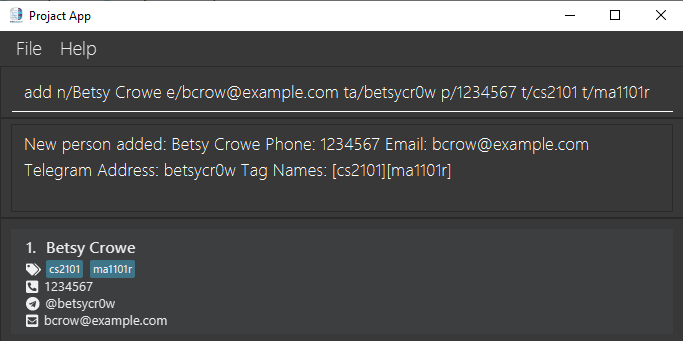
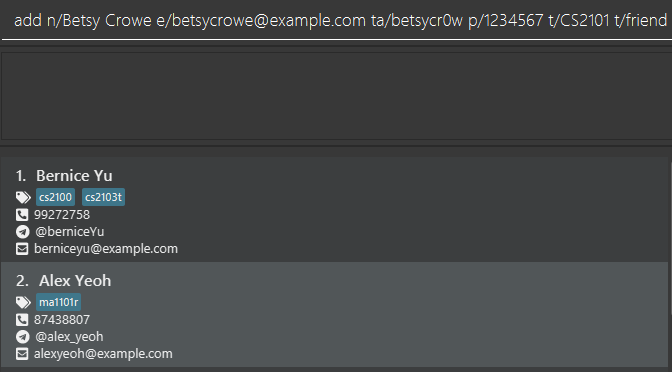
Add guide for AddCommand and EditCommand

diff --git a/docs/UserGuide.md b/docs/UserGuide.md
@@ -191,13 +191,13 @@ Projact's data is saved to your hard disk automatically if there are any changes
 
 #### Adding a contact: `add`
 
-Adds a contact to the person list.
+Have you made a new friend? Great! Use the `add` command to add a new contact into the list.
 
 **Format**: `add n/NAME p/PHONE_NUMBER e/EMAIL ta/TELEGRAM_ADDRESS [t/TAG]…`
 
 * No two contacts can have the same name.
-* Phone numbers can be 7 to 15 digits long.
-* Telegram addresses can be 5-32 characters long.
+* Phone numbers must be 7 to 15 digits long.
+* Telegram addresses must be 5-32 characters long.
 * A contact can be created with 0 or more tags.
 
 <div markdown="span" class="alert alert-primary">:bulb: <b>Tip:</b><br>
@@ -208,15 +208,23 @@ Adds a contact to the person list.
 
 </div>
 
-Examples:
-* `add n/John Doe p/98765432 e/johnd@example.com ta/john_doe123`
-* `add n/Alex King e/alexk1ng11@example.com ta/alek1ng p/91111111 t/hallmate`
-* `add n/Betsy Crowe e/betsycrowe@example.com ta/betsycr0w p/1234567 t/CS2101 t/friend`
-![result for 'add n/Betsy Crowe'](images/AddCommandGuide1.png)
+**Example Guide:** 
+
+Let's say you have a friend named `Betsy Crowe` that you want to add into your list of contacts.
+Her email address is `betsycrowe@example.com`, her telegram handle is `betsycr0w`, her phone number is `91234567`, 
+and she is your `CS2101` classmate as well as a `friend`.
+
+1. First, type the `add` command followed by `Betsy`'s details as in the format below
+`add n/Betsy Crowe e/betsycrowe@example.com ta/betsycr0w p/91234567 t/CS2101 t/friend`
+![AddCommandGuide1](images/AddCommandGuide1.png)
+
+2. Hit enter and she will be added at the bottom of the list of contacts.
+![AddCommandGuide2](images/AddCommandGuide2.png)
 
 #### Editing a contact : `edit`
 
-Edits the contact details of an existing contact in the person list.
+Oops! Accidentally misentered your contact's details? Fret not! The `edit` command allows you to edit a single field 
+(or multiple fields) as needed!
 
 Format: `edit INDEX [n/NAME] [p/PHONE_NUMBER] [e/EMAIL] [ta/TELEGRAM_ADDRESS] [t/TAG]…`
 
@@ -227,10 +235,15 @@ Format: `edit INDEX [n/NAME] [p/PHONE_NUMBER] [e/EMAIL] [ta/TELEGRAM_ADDRESS] [t
 * You can remove all the contact’s tags by typing `t/` without
     specifying any tags after it.
 
-Examples:
-*  `edit 1 p/91234567 e/johndoe@example.com` Edits the phone number and email address of the 1st contact to be `91234567` and `johndoe@example.com` respectively.
-*  `edit 2 n/Betsy Crower t/` Edits the name of the 2nd contact to be `Betsy Crower` and clears all existing tags.
-*  `edit 2 t/CS2103T` Edits the tag of the 2nd contact to only contain the module CS2103T tag.
+**Example Guide:** 
+
+For example, if you want to change `Bernice Yu`'s telegram handle from `berniceYu` to `berniceYu123`
+
+1. Taking note that `Bernice` is the first person in the list, type in `edit 1 ta/berniceYu123`
+![EditCommandGuide1](images/EditCommandGuide1.png)
+
+2. Hit enter, and her telegram handle will be changed.
+![EditCommandGuide2](images/EditCommandGuide2.png)
 
 
 #### Locating contacts by name: `find`
